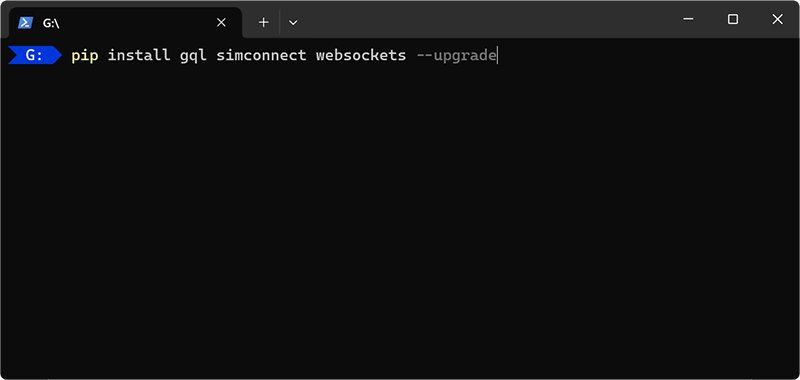
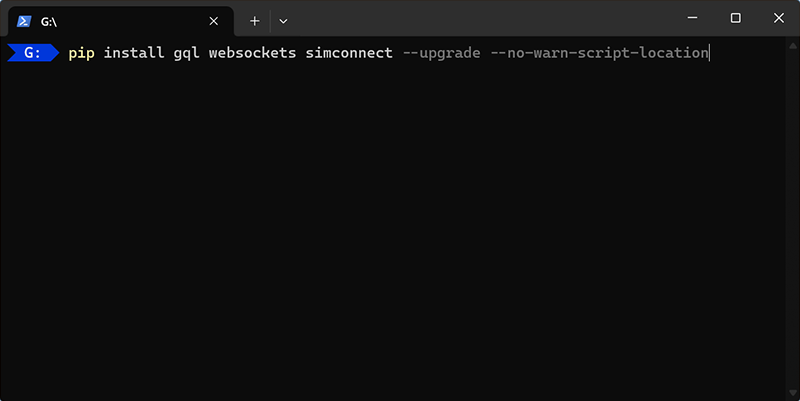
Update Python instructions (#306)
* Update Python instructions

* Clean up the page

* Coderabbit

diff --git a/content/guides/installing-python/_index.md b/content/guides/installing-python/_index.md
@@ -3,56 +3,29 @@ title: Installing Python
 description: Installing Python for use with MobiFlight.
 ---
 
-Python is the external MobiFlight scripting language, e.g., needed to connect custom aircraft APIs to the WinWing CDUs.
+Python is the primary scripting language used by MobiFlight to connect custom aircraft APIs to [WinWing CDUs](/game-controllers/winwing/winwing-cdu/). The following must be installed for MobiFlight to work with Python:
 
-#### Required Python environment (all three are checked by MobiFlight)
+- Python version `v3.10` or later.
+- The `websockets`, `gql`, and `SimConnect` Python packages.
 
-- Minimum installed Python version: `v3.10`
-- Python path is set in the Windows PATH system variable.
-- Installed Python packages: `websockets, gql, SimConnect`
-
-## Installation instructions
+## Python installation instructions
 
 {{% steps %}}
 
-### Download and install Python
+### Install from the Microsoft Store
 
-[Download](https://www.python.org/downloads/) and install the official Python release. Make sure to enable adding Python to the PATH during the installation process.
+[Install Python from the Microsoft Store](https://apps.microsoft.com/detail/9PNRBTZXMB4Z?hl=en-us&gl=US&ocid=pdpshare).
 
-> [!WARNING] > **Do not forget to set checkmark for adding python.exe to PATH**
-
-{{< screenshot image="python-installer.png" title="Screenshot of the Python installer with the Add python.exe to PATH option enabled." >}}
+{{< screenshot image="store-python.png" title="Screenshot of the Microsoft Store listing for Python 3.13 with the Install button highlighted." >}}
 
 ### Install required Python packages
 
-Open **Windows Terminal** or **Command Prompt**, then enter the following command:
+Open **Windows Terminal** or **Command Prompt**, then run the following command:
 
 ```powershell
-pip install gql simconnect websockets --upgrade
+pip install gql websockets simconnect --upgrade --no-warn-script-location
 ```
 
 {{< screenshot image="pip-install.png" title="Screenshot of Windows Terminal with the pip install command entered." >}}
-
-{{% /steps %}}
-
-## Troubleshooting
-
-If MobiFlight fails to find Python after completing the installation steps above, it is typically caused by multiple versions of Python installed at the same time.
-
-To resolve the issue:
-
-{{% steps %}}
-
-### Open the app execution aliases dialog
-
-From the **Start** menu, type **app execution**, and select the **Manage app execution aliases** entry.
-
-{{< screenshot image="start-menu-app-execution.png" title="Screenshot of the Windows Start menu with the Manage app execution aliases entry highlighted." >}}
-
-### Turn off the python.exe alias
-
-In the list of app aliases, look for entries associated with **python.exe** and set the toggle switch to **Off**
-
-{{< screenshot image="python-off.png" title="Screenshot of the Manage app execution aliases settings with the python.exe entry turned off." >}}
 
 {{% /steps %}}
